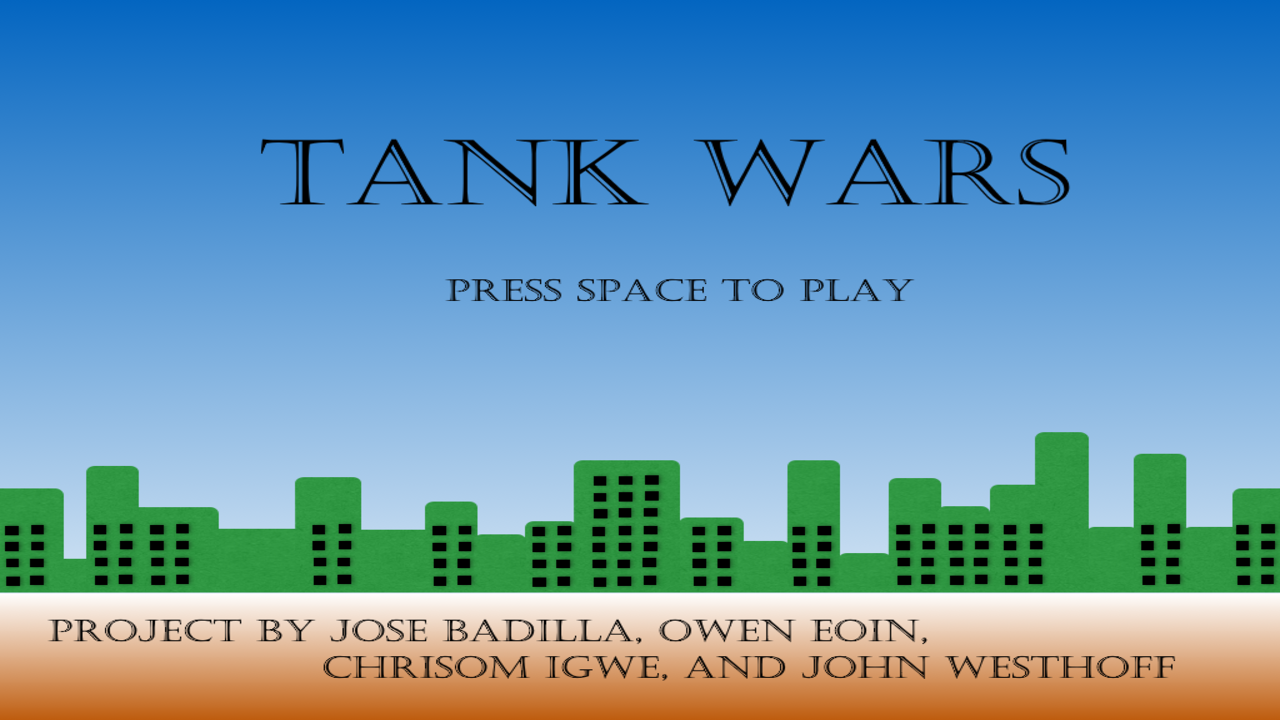
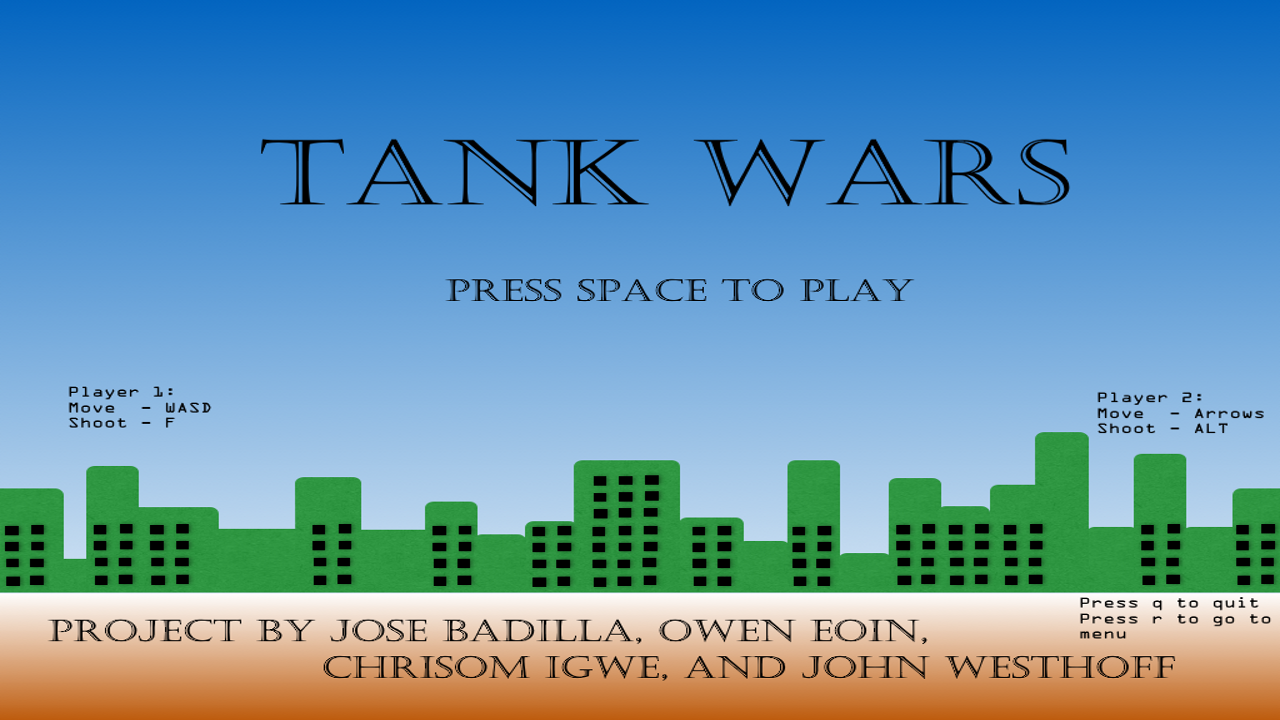
Changed tank death to big boom, updated menu, added getFrames to sprite, improved makefile, and make sure colors work on mac and linux.

diff --git a/ProtoTypes/oursdllib.h b/ProtoTypes/oursdllib.h
@@ -13,15 +13,27 @@
 // A namespace for ANSI color constants
 namespace color
 {
-                                    //AARRGGBB
-    static const Uint32 RED     =   0xFFFF0000;
-    static const Uint32 GREEN   =   0xFF00FF00;
-    static const Uint32 BLUE    =   0xFF0000FF;
-    static const Uint32 WHITE   =   0xFFFFFFFF;
-    static const Uint32 BLACK   =   0xFF000000;
-    static const Uint32 YELLOW  =   0xFFFFFF00;
-    static const Uint32 CYAN    =   0xFF00FFFF;
-    static const Uint32 MAGENTA =   0xFFFF00FF;
+    #ifdef __linux__
+                                        //AARRGGBB
+        static const Uint32 RED     =   0xFFFF0000;
+        static const Uint32 GREEN   =   0xFF00FF00;
+        static const Uint32 BLUE    =   0xFF0000FF;
+        static const Uint32 WHITE   =   0xFFFFFFFF;
+        static const Uint32 BLACK   =   0xFF000000;
+        static const Uint32 YELLOW  =   0xFFFFFF00;
+        static const Uint32 CYAN    =   0xFF00FFFF;
+        static const Uint32 MAGENTA =   0xFFFF00FF;
+    #else // For Mac
+                                        //RRGGBBAA
+        static const Uint32 RED     =   0xFF0000FF;
+        static const Uint32 GREEN   =   0x00FF00FF;
+        static const Uint32 BLUE    =   0x0000FFFF;
+        static const Uint32 WHITE   =   0xFFFFFFFF;
+        static const Uint32 BLACK   =   0x000000FF;
+        static const Uint32 YELLOW  =   0xFFFF00FF;
+        static const Uint32 CYAN    =   0x00FFFFFF;
+        static const Uint32 MAGENTA =   0xFF00FFFF;
+    #endif
 }
 // Loads and optimizes an image from a file
 SDL_Surface *load_image(std::string fname);

diff --git a/ProtoTypes/bigboom.h b/ProtoTypes/bigboom.h
@@ -1,0 +1,29 @@
+#ifndef BIGBOOM_H
+#define BIGBOOM_H
+
+#include "sprite.h"
+#include "boom.h"
+#include "object.h"
+#include "scene.h"
+#include <string>
+
+class BigBoom : public Boom
+{
+    public:
+        BigBoom(int x, int y, std::string file="bigboom.png", int num=7, int w=128, int h=128); 
+        void onCollision(object& a){ }
+        void onDeath(list<object*>* a);
+    private:
+	    Sprite sprite;
+};
+
+//############### CONSTRUCTOR / DESTRUCTOR ####################
+BigBoom::BigBoom(int x, int y, std::string file, int num, int w, int h) : Boom(x, y, file, num, w, h)
+{
+    type = 3;
+}
+void BigBoom::onDeath(list<object*>* a)
+{
+    Scene::switchScenes( "menu" );
+}
+#endif

diff --git a/ProtoTypes/tank.h b/ProtoTypes/tank.h
@@ -4,6 +4,7 @@
 #include "sprite.h"
 #include "object.h"
 #include "bullet.h"
+#include "bigboom.h"
 #include "oursdllib.h"
 #include <SDL/SDL.h>
 #include <SDL/SDL_keyboard.h>
@@ -143,8 +144,7 @@ class Tank : public object{
     }
 void Tank::onDeath(list<object*>* a)
 {
-    a->push_back( new Boom( xPos/SCALE, yPos/SCALE, "bigboom.png", 7, 128, 128 ) );
-    Scene::switchScenes( "menu" );
+    a->push_back( new BigBoom( xPos/SCALE, yPos/SCALE, "bigboom.png", 21, 128, 128 ) );
 }
 void Tank::checkCollision(object& a)
 {

diff --git a/ProtoTypes/sprite.h b/ProtoTypes/sprite.h
@@ -26,6 +26,8 @@ class Sprite
 		Sprite(std::string sprite_file = "player.png", int sp_x=0, int sp_y=0, int sp_w=32, int sp_h=32, int im_num = 7);
         // modifies the off rect
 		void animate();
+        // get the number of frames
+        int getFrames();
         // gets the current frame number
 		int getFrame();
         // increments the current frame number by inc

diff --git a/ProtoTypes/boom.h b/ProtoTypes/boom.h
@@ -26,7 +26,7 @@ Boom::Boom(int x, int y, std::string file, int num, int w, int h) : sprite(file,
 //################ BASIC UTILITIES ############################
 
 bool Boom::is_dead(){
-    return sprite.getFrame() == 6;
+    return sprite.getFrame() == sprite.getFrames()-1;
 }
 
 void Boom::onUpdate(){

diff --git a/ProtoTypes/sprite.cpp b/ProtoTypes/sprite.cpp
@@ -47,6 +47,10 @@ void Sprite::animate()
 		sprite_index += image_number;
 	off.x = off.w*sprite_index;
 }
+int Sprite::getFrames()
+{
+	return image_number;
+}
 int Sprite::getFrame()
 {
 	return sprite_index;
